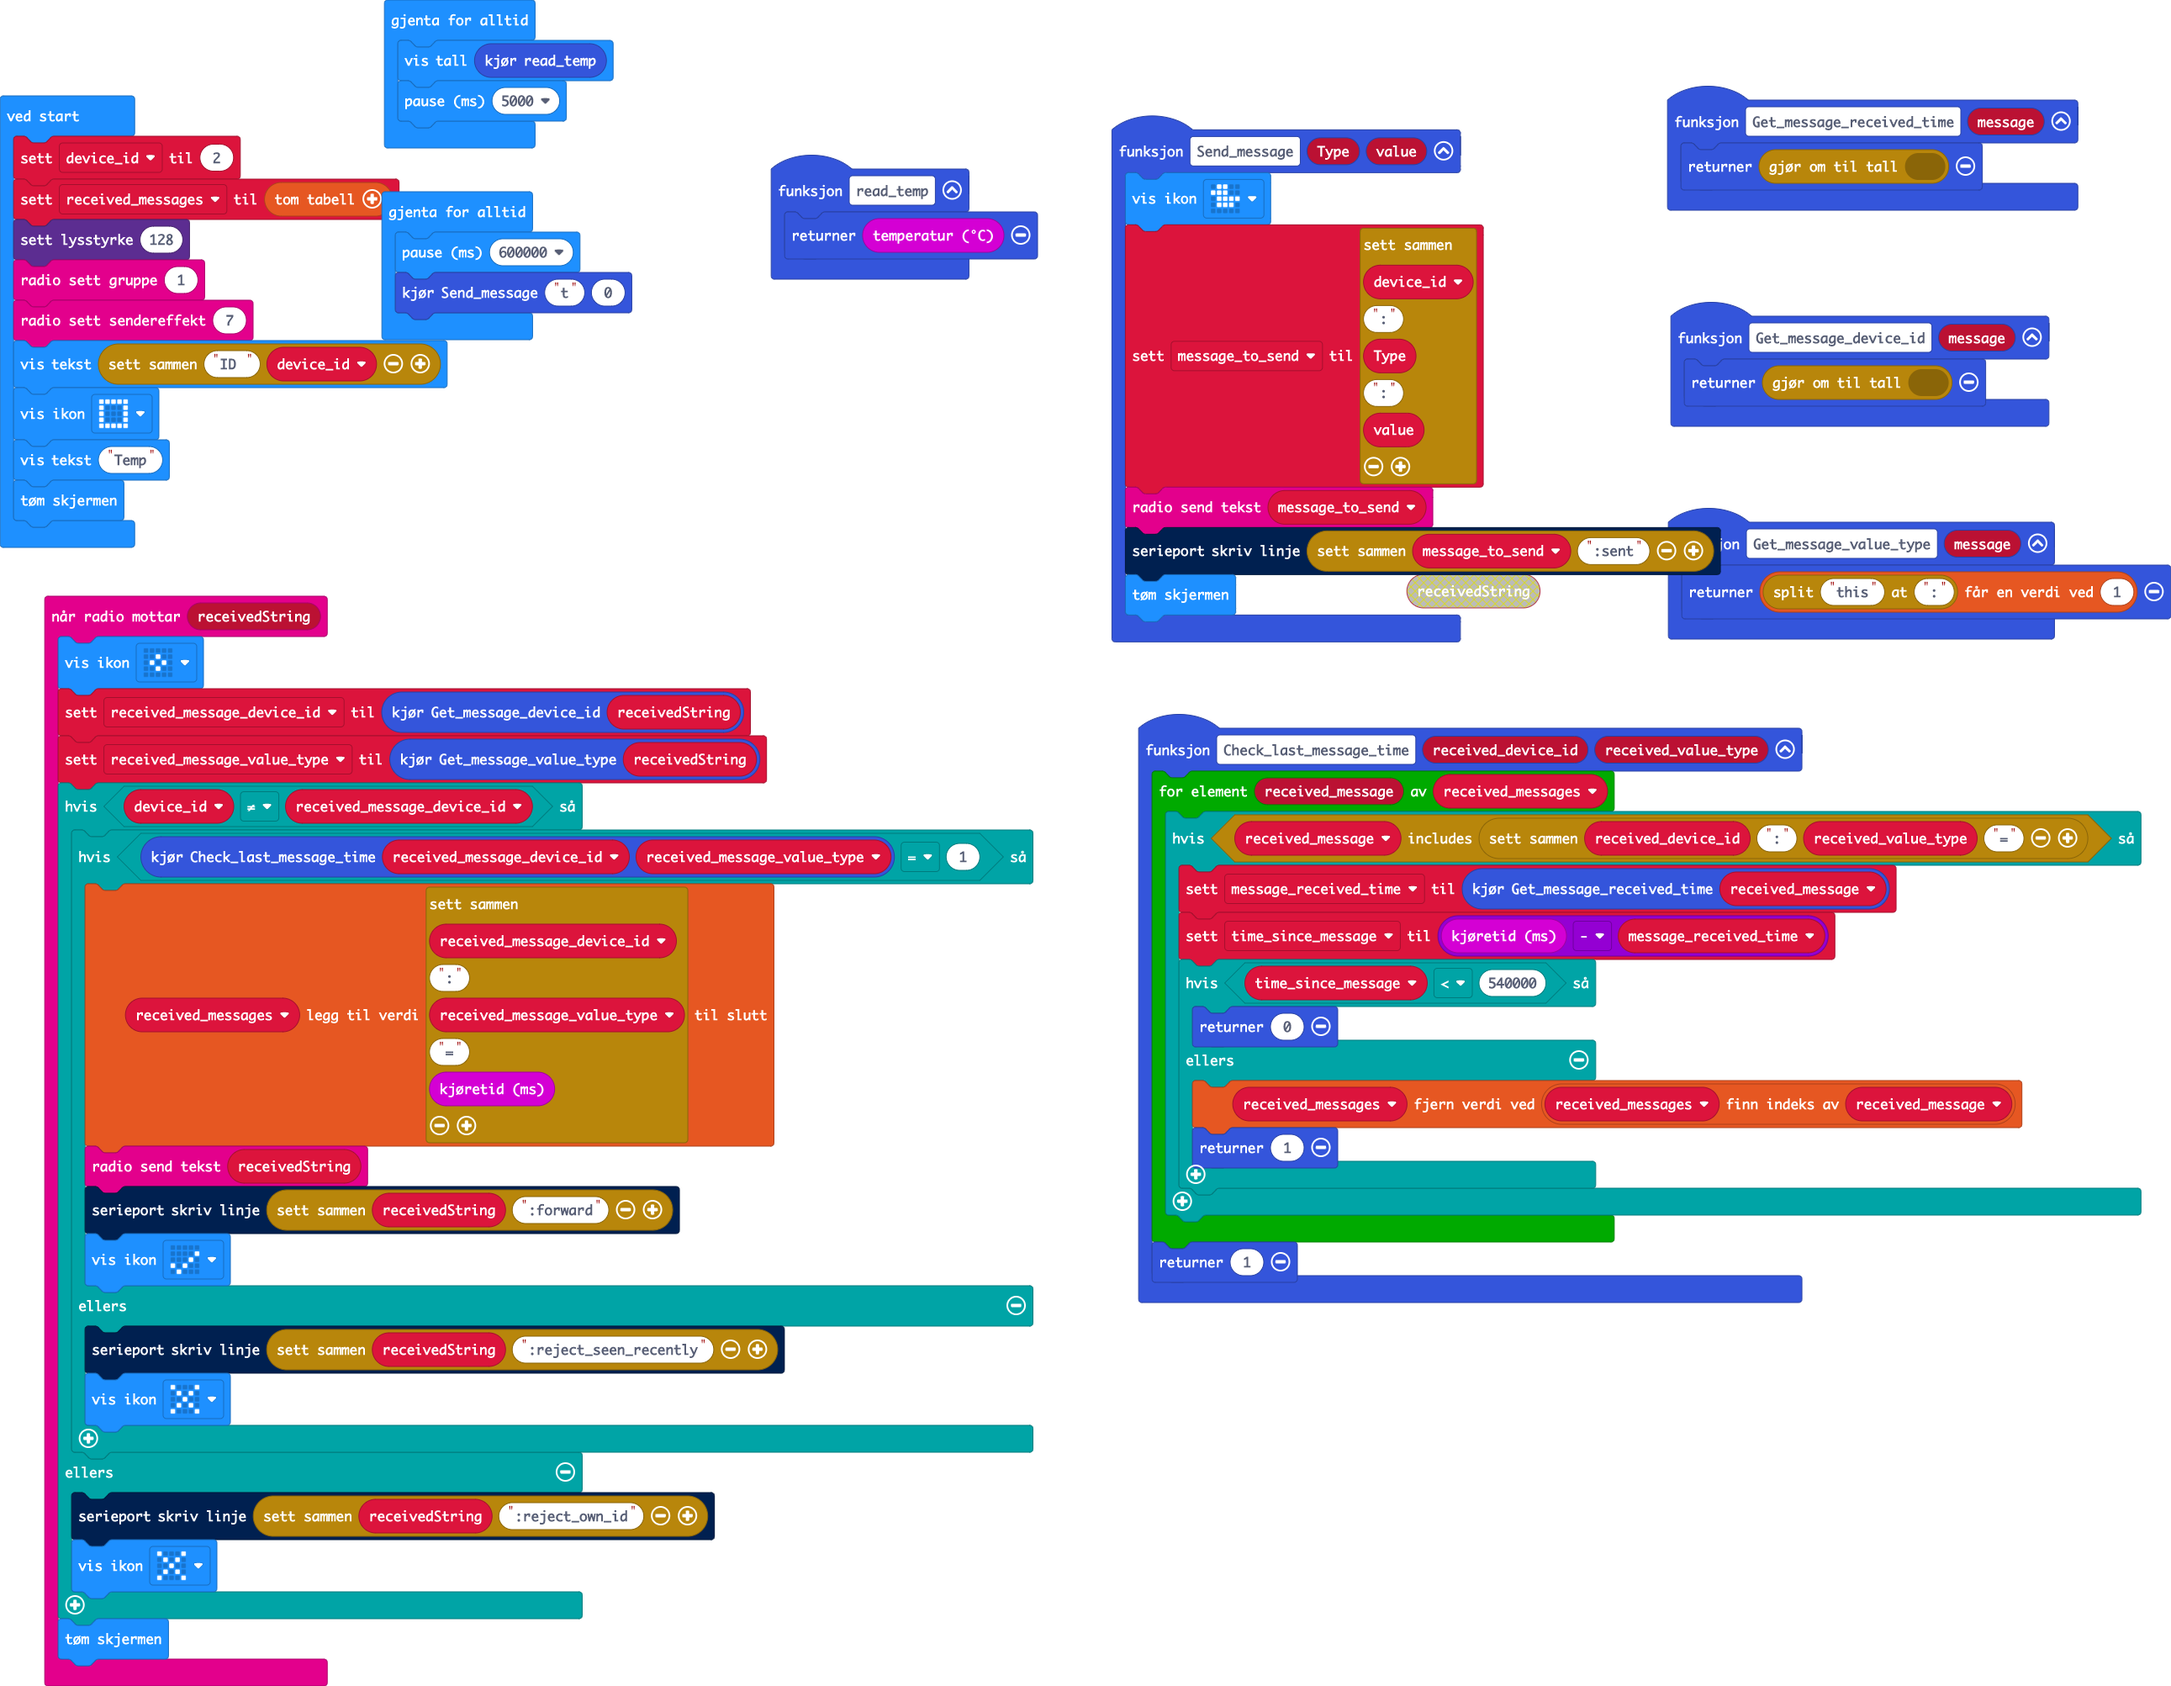
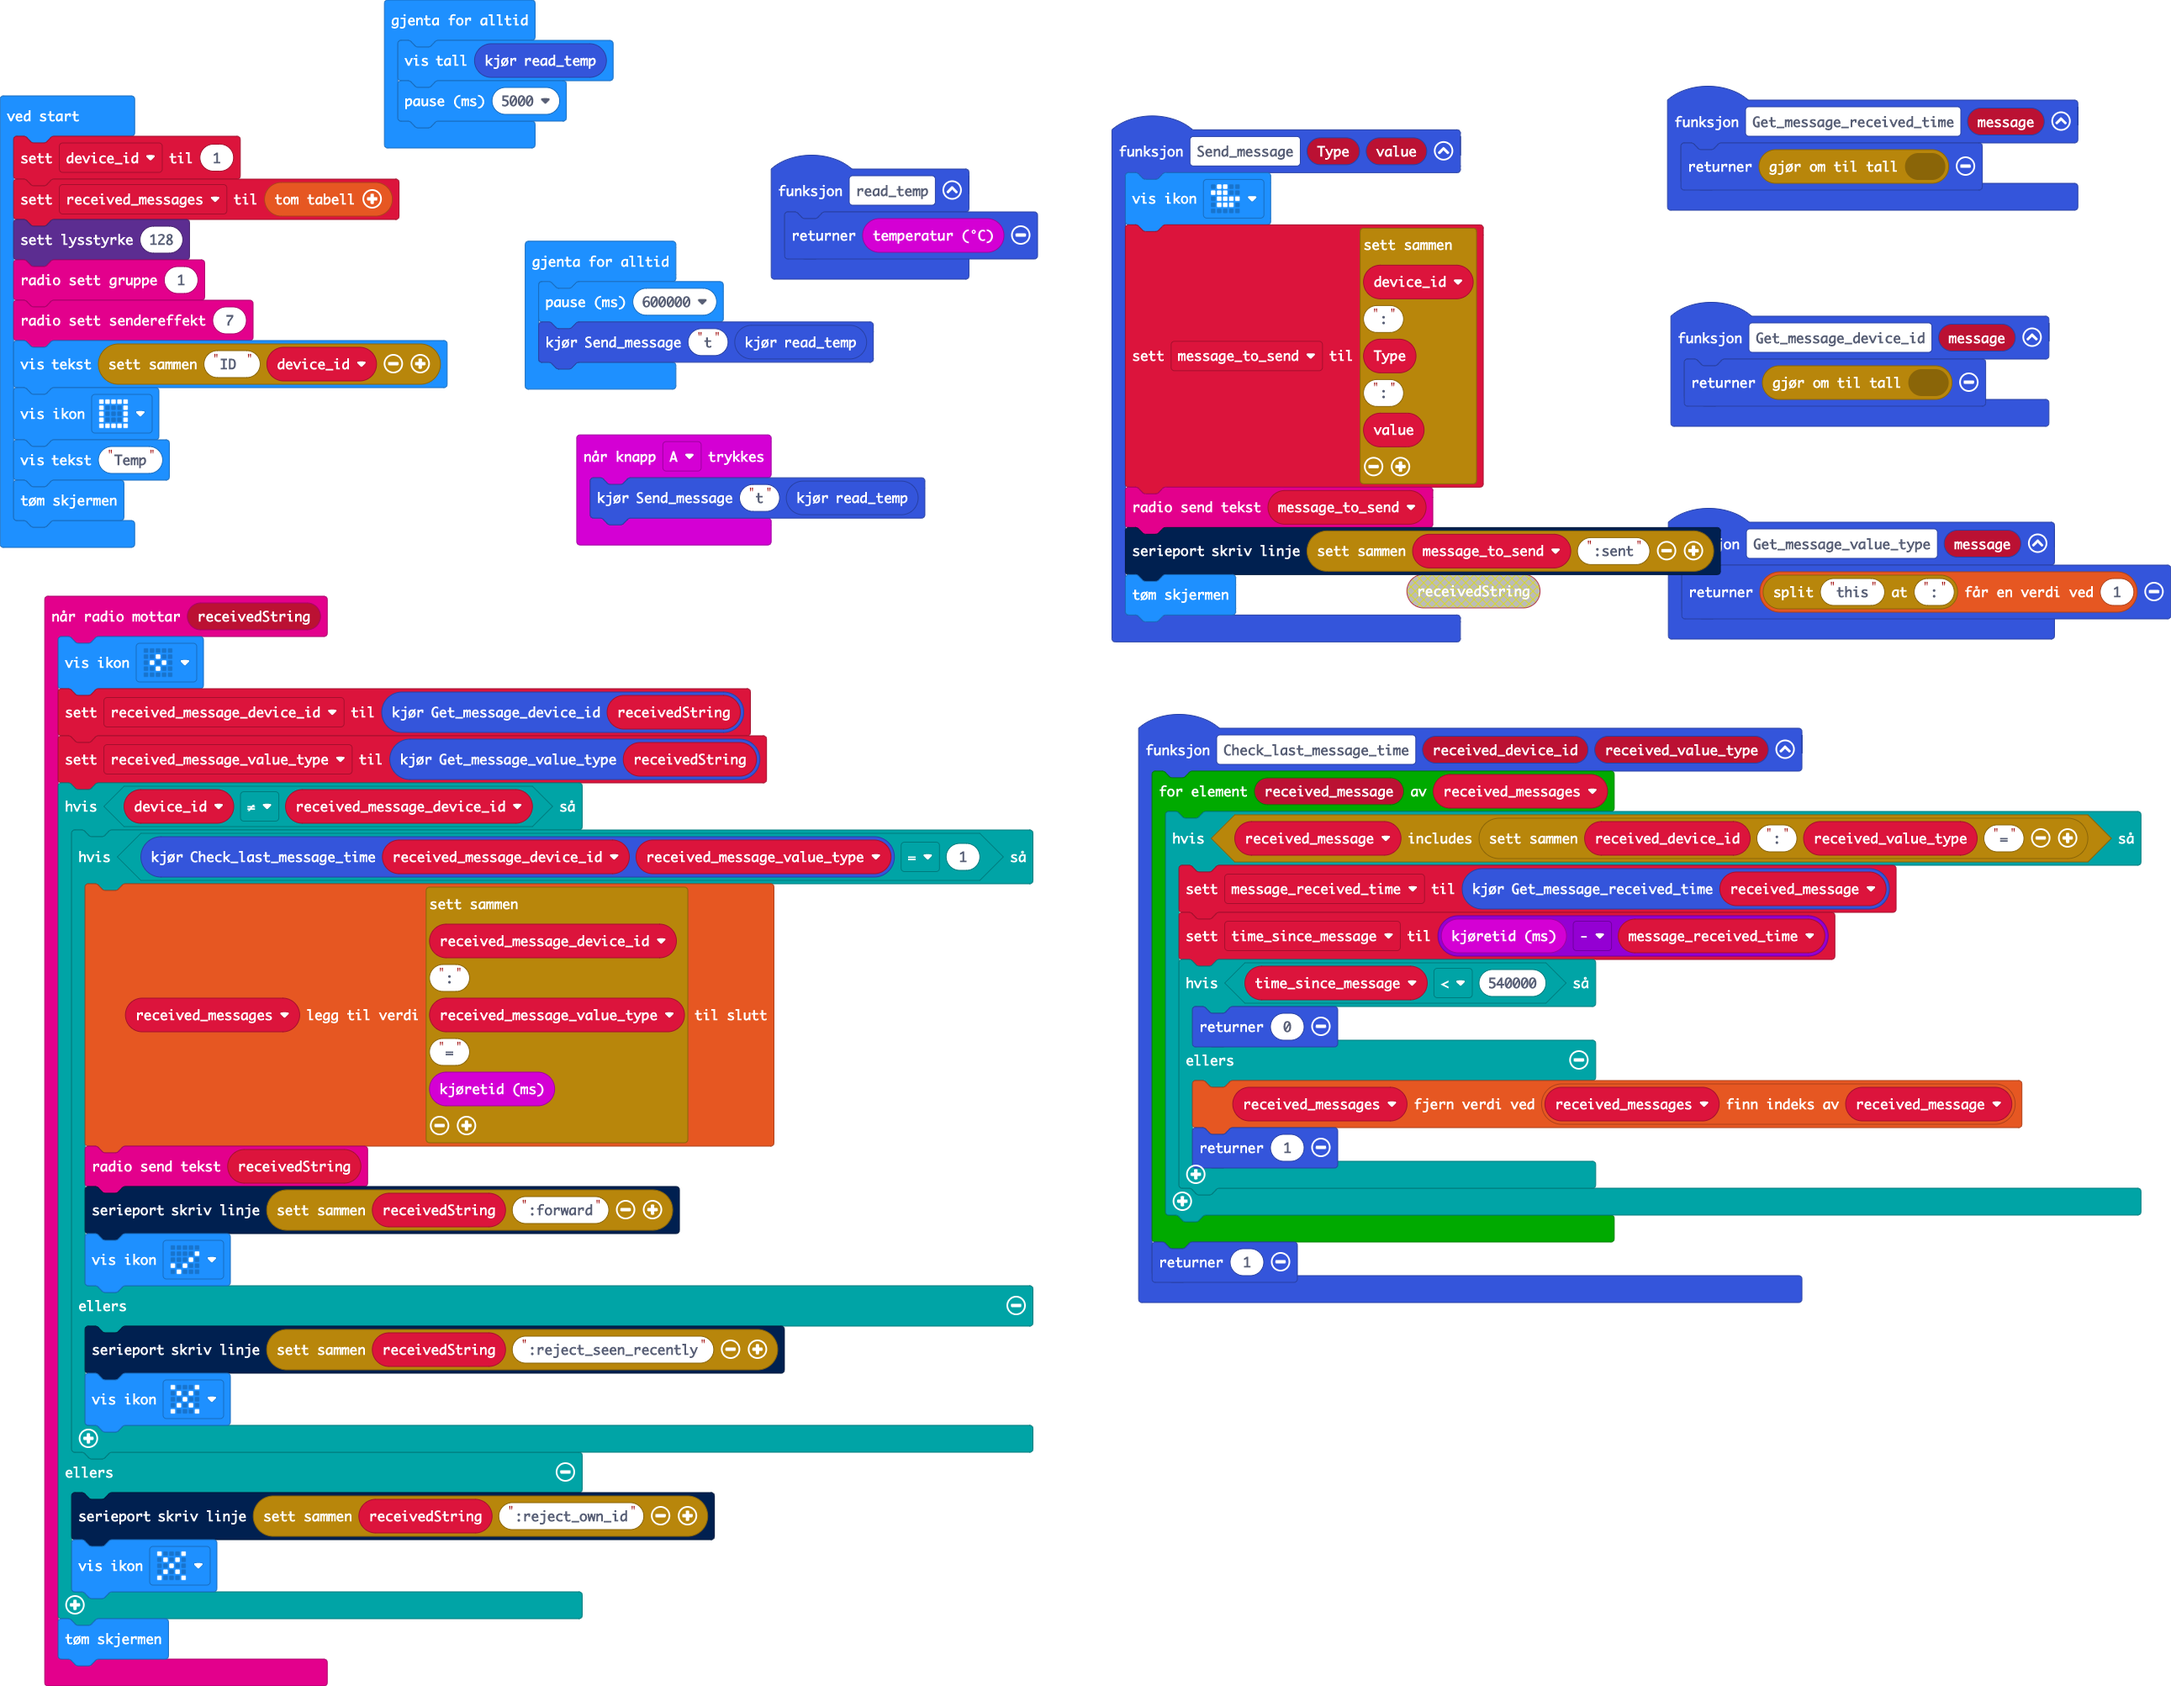
Fixed push 0 bug

Changed region(s): [[0.1549, 0.0928, 0.4338, 0.3401]]

diff --git a/main.ts b/main.ts
@@ -4,6 +4,9 @@ function read_temp () {
 function Get_message_device_id (message: string) {
     return parseFloat("")
 }
+input.onButtonPressed(Button.A, function () {
+    Send_message("t", read_temp())
+})
 function Send_message (Type: string, value: number) {
     basic.showIcon(IconNames.Duck)
     message_to_send = "" + device_id + ":" + Type + ":" + value
@@ -59,7 +62,7 @@ let message_received_time = 0
 let message_to_send = ""
 let received_messages: string[] = []
 let device_id = 0
-device_id = 2
+device_id = 1
 received_messages = []
 led.setBrightness(128)
 radio.setGroup(1)
@@ -74,5 +77,5 @@ basic.forever(function () {
 })
 basic.forever(function () {
     basic.pause(600000)
-    Send_message("t", 0)
+    Send_message("t", read_temp())
 })
